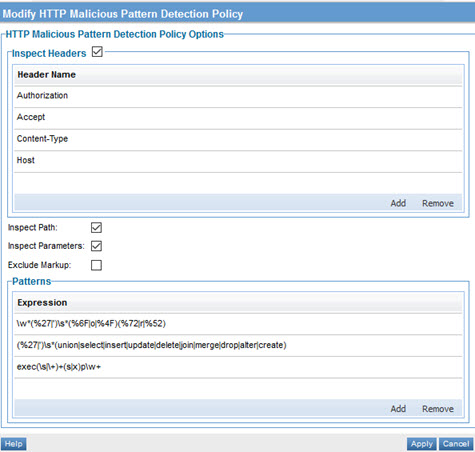
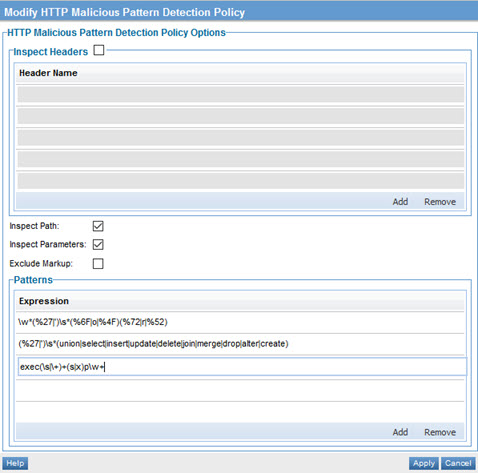
ATMO-25433 malicious pattern detection policy, updates from RB.

diff --git a/ag/policies/policy_op_http_malicious_pattern_detection.htm b/ag/policies/policy_op_http_malicious_pattern_detection.htm
@@ -30,7 +30,6 @@ nav-title: HTTP Malicious Pattern Detection
 	<li><a href="#config_options">Configuration Options</a></li>
 	<li><a href="#policy_attach">Attaching the Policy</a></li>
 	<li><a href="#resources">Resources</a></li>
-	<li><a href="#examples_oob">Out of the Box Examples</a></li>
 	<li><a href="#http_mal_pattern_det_uc_00">HTTP Malicious Pattern Detection Policy: Use Cases</a></li>
 </ol>
 <div class = "divider1"></div>
@@ -43,7 +42,6 @@ nav-title: HTTP Malicious Pattern Detection
 <ul>
 	<li>This policy uses regular expressions to define the content that could be considered dangerous, that would warrant a message being rejected.</li>
 	<li>Typical uses of this policy are for SQL injection detection or JavaScript detection.</li>
-	<li>Two sample policies are provided in the root level Policies folder (HTTPJavascriptInjection and HTTPSQLInjection). You can directly attach these to a service or operation. See <a href="#examples_oob">Out of the Box Examples</a>.</li>
 </ul>
 <p><a href="#top">back to top</a></p>
 
@@ -56,9 +54,7 @@ nav-title: HTTP Malicious Pattern Detection
 <ol>
 	<li>Go to <strong>Workbench</strong> &gt; <strong>Browse</strong> &gt; <strong>Organization</strong>, and select <strong>Policies</strong> &gt; <strong>Operational Policies</strong>. The <strong>Policies Summary</strong> is displayed.</li>
 	<li>Click <strong>Add Policy</strong>.</li>
-	<li>Choose the policy type and click <strong>Next</strong>.
-<p><strong>Note</strong>: You can also import one of the HTTP Malicious Pattern Detection sample policies (HTTP Malicious Pattern Detection or HTTPJavascriptInjection). You can use the policy as-is or modify it. See <a href="#examples_oob">Out of the Box Examples</a>.</p>
-	</li>
+	<li>Choose the policy type and click <strong>Next</strong>.</li>
 	<li>Specify a name (required) and description (optional) and click <strong>Finish</strong>. At the <strong>Completion Summary</strong>, click <strong>Close</strong>. The <strong>Add Policy</strong> Wizard creates a draft policy instance that you can then configure on the <strong>Policy Details</strong> page.</li>
 </ol>
 <p>For more information, see <a href="policy_management.htm#add_policy">Add Policy</a>.</p>
@@ -134,27 +130,6 @@ nav-title: HTTP Malicious Pattern Detection
 
 
 
-<h3 id="examples_oob">Out of the Box Examples</h3>
-<p>The product includes the following out-of-the-box examples that illustrate usage of the HTTP Malicious Pattern Detection Policy:</p>
-<ul>
-	<li><a href="#ex_sql_inj_regex">SQL Injection RegEx</a></li>
-	<li><a href="#ex_js_markup">JavaScript script Markup Tags</a></li>
-</ul>
-<p>You can use the sample policies located in the root Policies folder as-is, or you can customize the configuration to suit your needs.</p>
-
-
-<h4 id="ex_sql_inj_regex">SQL Injection RegEx</h4>
-<p>A sample <strong>HTTPSQLInjection</strong> policy is included out-of-the-box. It includes three regular expressions that match SQL keywords and symbols, as shown below.</p>
-<p><img src="images/httpsqlinjection_sample.jpg" alt="" /></p>
-
-
-<h4 id="ex_js_markup">JavaScript Script Markup Tags</h4>
-<p>A sample <strong>HTTPJavascriptInjection</strong> policy is also included out-of-the-box. It includes expressions that match JavaScript script markup tags.</p>
-<p><img src="images/httpjavascriptinjection_sample.jpg" alt="" /></p>
-<p><a href="#top">Back to top</a></p>
-
-
-
 <h3 id="http_mal_pattern_det_uc_00">HTTP Malicious Pattern Detection Policy: Use Cases</h3>
 <p>This section includes the following examples:</p>
 <ul>
@@ -170,14 +145,7 @@ nav-title: HTTP Malicious Pattern Detection
 <p>For this example, first create the policy, following the procedure in <a href="#http_mal_pattern_det_create">Creating a Malicious Pattern Detection Policy</a> above.</p>
 <p>Then, follow the procedure in <a href="#http_mal_pattern_det_config">Configuring the Malicious Pattern Detection Policy</a> above, and choose the following configuration settings: </p>
 <ul>
-	<li><strong>Inspect Headers</strong>: Check the box and specify the following headers:
-		<ul>
-			<li>Authorization</li>
-			<li>Accept</li>
-			<li>		Content-Type</li>
-			<li> Host</li>
-		</ul>
-	</li>
+	<li><strong>Inspect Headers</strong>: Leave the checkbox cleared.</li>
 	<li><strong>Inspect Path</strong>: Check this box.</li>
 	<li><strong>Inspect Parameters</strong>: Check this box.</li>
 	<li><strong>Exclude Markup</strong>: Leave the checkbox cleared.</li>
@@ -202,6 +170,7 @@ nav-title: HTTP Malicious Pattern Detection
 <h4 id="http_mal_pattern_det_uc_02">Policy Example #2: detecting JavaScript injections</h4>
 <p>To configure this policy to detect JavaScript injections, follow the same configuration steps given in the previous example, but use the pattern below:</p>
 <pre>&lt;\s*script\b[^&gt;]*&gt;[^&lt;]+&lt;\s*/\s*script\s*&gt;</pre>
+<p><img src="images/http_mal_pattern_detection_uc_02_05.jpg" alt="" /></p>
 <p><a href="#top">Back to top</a></p>
 
 

diff --git a/sp/admin_console/using_admin_console.htm b/sp/admin_console/using_admin_console.htm
@@ -54,7 +54,7 @@ nav-title: Using the Administration Console
 <h4>Install Feature(s)</h4>
 <p>To install a feature, select the corresponding checkbox, and click <strong>Install Feature</strong>. Select additional checkboxes to install multiple features. During the installation process a series of feature resolution screens will display. After the installation process is complete, the feature is listed on the <strong>Installed Features</strong> tab.</p>
 <h4>Configure Feature</h4>
-<p>If additional configuration steps are required , you can select <strong>Configure</strong> on the <strong>Installation Complete</strong> screen, or select <strong> Complete Configuration</strong> in the <strong>Pending Installation Tasks</strong> section of the <strong>Installed Features</strong> screen. See <a href="config_actions.htm" >Configuration Actions</a> for information on available configuration tasks.</p>
+<p>If additional configuration steps are required, you can select <strong>Configure</strong> on the <strong>Installation Complete</strong> screen, or select <strong> Complete Configuration</strong> in the <strong>Pending Installation Tasks</strong> section of the <strong>Installed Features</strong> screen. See <a href="config_actions.htm" >Configuration Actions</a> for information on available configuration tasks.</p>
 <p><a href="#top">Back to top</a></p>
 
 
